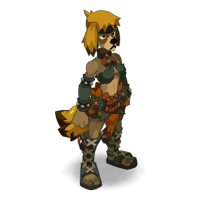
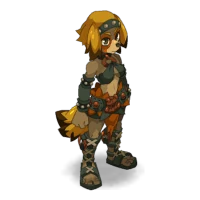
Ouginak : les 8 vraies têtes pour chaque sexe
Les têtes de l'Ouginak sont les apparences 3502 à 3509 (masculin) et 3510 à 3517 (féminin), vérifiées sur le serveur d'images d'Ankama et comparées au rendu officiel par défaut. L'ancienne liste était décalée de deux (d'où les têtes féminines chez l'homme et les têtes cassées chez la femme). Images locales régénérées, cache des images media-v7.

Claude-Session: https://claude.ai/code/session_01TgfgsFbfimzPE6UbE45j36

diff --git a/js/looks.js b/js/looks.js
@@ -1,7 +1,7 @@
 /* idlus — apparences des héros (3.1)
    Rendus officiels des apparences DOFUS (corps de classe, têtes, couleurs) + correspondances objet → apparence établies par idlus. */
 (function (root) {
-  const CLASS_LOOKS = {"feca":{"m":{"body":10,"heads":[2012,2013,2014,2015,2016,2017,2018,2019],"colors":[15047528,7814953,14185518,4809554,5319189]},"f":{"body":11,"heads":[2020,2021,2022,2023,2024,2025,2026,2027],"colors":[15047528,7814953,14185518,4809554,5319189]}},"osa":{"m":{"body":20,"heads":[2028,2029,2030,2031,2032,2033,2034,2035],"colors":[14325094,14732959,3572096,4800822,16755757]},"f":{"body":21,"heads":[2036,2037,2038,2039,2040,2041,2042,2043],"colors":[14325094,14732959,3572096,4800822,16755757]}},"enu":{"m":{"body":30,"heads":[2044,2045,2046,2047,2048,2049,2050,2051],"colors":[13732958,15851694,3093806,14325820,7814953]},"f":{"body":31,"heads":[2052,2053,2054,2055,2056,2057,2058,2059],"colors":[16297081,15588265,3159600,14517248,7814953]}},"sram":{"m":{"body":40,"heads":[2060,2061,2062,2063,2064,2065,2066,2067],"colors":[14206857,15392448,3435918,6177568,10715217]},"f":{"body":41,"heads":[2068,2069,2070,2071,2072,2073,2074,2075],"colors":[14325094,15392448,3435918,6177568,3435918]}},"xelor":{"m":{"body":50,"heads":[2076,2077,2078,2079,2080,2081,2082,2083],"colors":[8550749,15782577,1923718,6700064,15042816]},"f":{"body":51,"heads":[2084,2085,2086,2087,2088,2089,2090,2091],"colors":[8550749,14533780,1923718,6700064,15042816]}},"eca":{"m":{"body":60,"heads":[2092,2093,2094,2095,2096,2097,2098,2099],"colors":[14732959,15173176,15690532,5478807,7687730]},"f":{"body":61,"heads":[2100,2101,2102,2103,2104,2105,2106,2107],"colors":[14732959,15173176,15690532,5478807,7687730]}},"eni":{"m":{"body":70,"heads":[2108,2109,2110,2111,2112,2113,2114,2115],"colors":[14325094,7814953,13997612,4739655,6833937]},"f":{"body":71,"heads":[2116,2117,2118,2119,2120,2121,2122,2123],"colors":[15047528,14996664,14368563,14471352,9799968]}},"iop":{"m":{"body":80,"heads":[2124,2125,2126,2127,2128,2129,2130,2131],"colors":[15704172,15301153,14736065,12200764,484225]},"f":{"body":81,"heads":[2132,2133,2134,2135,2136,2137,2138,2139],"colors":[15047528,15301153,14736065,12200764,12200764]}},"cra":{"m":{"body":90,"heads":[2140,2141,2142,2143,2144,2145,2146,2147],"colors":[15047528,14383411,7696171,8675096,9392643]},"f":{"body":91,"heads":[2148,2149,2150,2151,2152,2153,2154,2155],"colors":[15047528,14383411,7696171,9392643,9392643]}},"sadi":{"m":{"body":100,"heads":[2156,2157,2158,2159,2160,2161,2162,2163],"colors":[9329441,7966996,15914657,7820329,15914657]},"f":{"body":101,"heads":[2164,2165,2166,2167,2168,2169,2170,2171],"colors":[12282670,7966996,14994072,10711608,15258276]}},"sacri":{"m":{"body":110,"heads":[2172,2173,2174,2175,2176,2177,2178,2179],"colors":[15047528,15896377,8287530,8727092,16422159]},"f":{"body":111,"heads":[2180,2181,2182,2183,2184,2185,2186,2187],"colors":[15047528,15896377,8287530,8727092,16422159]}},"panda":{"m":{"body":120,"heads":[2188,2189,2190,2191,2192,2193,2194,2195],"colors":[13418918,5329968,9904435,3423523,14533780]},"f":{"body":121,"heads":[2196,2197,2198,2199,2200,2201,2202,2203],"colors":[13418918,5329968,9904435,9904435,14533780]}},"roub":{"m":{"body":1405,"heads":[2204,2205,2206,2207,2208,2209,2210,2211],"colors":[15047528,1341042,3883833,15703040,7098924]},"f":{"body":1407,"heads":[2212,2213,2214,2215,2216,2217,2218,2219],"colors":[15047528,1341042,3883833,15703040,7098924]}},"zobal":{"m":{"body":1437,"heads":[2220,2221,2222,2223,2224,2225,2226,2227],"colors":[15572842,9836073,4863523,1855824,11839343]},"f":{"body":1438,"heads":[2228,2229,2230,2231,2232,2233,2234,2235],"colors":[15572842,9836073,4863523,1855824,11839343]}},"steam":{"m":{"body":1663,"heads":[2236,2237,2238,2239,2240,2241,2242,2243],"colors":[14785388,15060409,3882547,11430949,10984301]},"f":{"body":1664,"heads":[2244,2245,2246,2247,2248,2249,2250,2251],"colors":[14785388,15060409,3882547,11430949,10984301]}},"elio":{"m":{"body":3179,"heads":[3183,3184,3185,3186,3187,3188,3189,3190],"colors":[16112841,10072765,8211000,16765866,2388929]},"f":{"body":3180,"heads":[3199,3200,3201,3202,3203,3204,3205,3206],"colors":[16112841,10072765,8211000,16765866,2388929]}},"hupper":{"m":{"body":3285,"heads":[3289,3290,3291,3292,3293,3294,3295,3296],"colors":[16104582,16439198,2663850,15071441,16643820]},"f":{"body":3286,"heads":[3297,3298,3299,3300,3301,3302,3303,3304],"colors":[16104582,16439198,2663850,13426363,15987438]}},"ougi":{"m":{"body":3498,"heads":[3504,3506,3507,3508,3511],"colors":[9795658,9989653,8077087,4081977,12868619]},"f":{"body":3499,"heads":[3526,3527],"colors":[9598537,13012508,8077087,4081977,9717256]}},"forge":{"m":{"body":3221,"heads":[4364,4365,4366,4367,4368,4369,4370,4371],"colors":[15047528,7814953,4276545,15325098,8885653]},"f":{"body":3633,"heads":[4363,4374,4375,4376,4377,4378,4379,4372],"colors":[15047528,7814953,4276545,15325098,8885653]}}};
+  const CLASS_LOOKS = {"feca":{"m":{"body":10,"heads":[2012,2013,2014,2015,2016,2017,2018,2019],"colors":[15047528,7814953,14185518,4809554,5319189]},"f":{"body":11,"heads":[2020,2021,2022,2023,2024,2025,2026,2027],"colors":[15047528,7814953,14185518,4809554,5319189]}},"osa":{"m":{"body":20,"heads":[2028,2029,2030,2031,2032,2033,2034,2035],"colors":[14325094,14732959,3572096,4800822,16755757]},"f":{"body":21,"heads":[2036,2037,2038,2039,2040,2041,2042,2043],"colors":[14325094,14732959,3572096,4800822,16755757]}},"enu":{"m":{"body":30,"heads":[2044,2045,2046,2047,2048,2049,2050,2051],"colors":[13732958,15851694,3093806,14325820,7814953]},"f":{"body":31,"heads":[2052,2053,2054,2055,2056,2057,2058,2059],"colors":[16297081,15588265,3159600,14517248,7814953]}},"sram":{"m":{"body":40,"heads":[2060,2061,2062,2063,2064,2065,2066,2067],"colors":[14206857,15392448,3435918,6177568,10715217]},"f":{"body":41,"heads":[2068,2069,2070,2071,2072,2073,2074,2075],"colors":[14325094,15392448,3435918,6177568,3435918]}},"xelor":{"m":{"body":50,"heads":[2076,2077,2078,2079,2080,2081,2082,2083],"colors":[8550749,15782577,1923718,6700064,15042816]},"f":{"body":51,"heads":[2084,2085,2086,2087,2088,2089,2090,2091],"colors":[8550749,14533780,1923718,6700064,15042816]}},"eca":{"m":{"body":60,"heads":[2092,2093,2094,2095,2096,2097,2098,2099],"colors":[14732959,15173176,15690532,5478807,7687730]},"f":{"body":61,"heads":[2100,2101,2102,2103,2104,2105,2106,2107],"colors":[14732959,15173176,15690532,5478807,7687730]}},"eni":{"m":{"body":70,"heads":[2108,2109,2110,2111,2112,2113,2114,2115],"colors":[14325094,7814953,13997612,4739655,6833937]},"f":{"body":71,"heads":[2116,2117,2118,2119,2120,2121,2122,2123],"colors":[15047528,14996664,14368563,14471352,9799968]}},"iop":{"m":{"body":80,"heads":[2124,2125,2126,2127,2128,2129,2130,2131],"colors":[15704172,15301153,14736065,12200764,484225]},"f":{"body":81,"heads":[2132,2133,2134,2135,2136,2137,2138,2139],"colors":[15047528,15301153,14736065,12200764,12200764]}},"cra":{"m":{"body":90,"heads":[2140,2141,2142,2143,2144,2145,2146,2147],"colors":[15047528,14383411,7696171,8675096,9392643]},"f":{"body":91,"heads":[2148,2149,2150,2151,2152,2153,2154,2155],"colors":[15047528,14383411,7696171,9392643,9392643]}},"sadi":{"m":{"body":100,"heads":[2156,2157,2158,2159,2160,2161,2162,2163],"colors":[9329441,7966996,15914657,7820329,15914657]},"f":{"body":101,"heads":[2164,2165,2166,2167,2168,2169,2170,2171],"colors":[12282670,7966996,14994072,10711608,15258276]}},"sacri":{"m":{"body":110,"heads":[2172,2173,2174,2175,2176,2177,2178,2179],"colors":[15047528,15896377,8287530,8727092,16422159]},"f":{"body":111,"heads":[2180,2181,2182,2183,2184,2185,2186,2187],"colors":[15047528,15896377,8287530,8727092,16422159]}},"panda":{"m":{"body":120,"heads":[2188,2189,2190,2191,2192,2193,2194,2195],"colors":[13418918,5329968,9904435,3423523,14533780]},"f":{"body":121,"heads":[2196,2197,2198,2199,2200,2201,2202,2203],"colors":[13418918,5329968,9904435,9904435,14533780]}},"roub":{"m":{"body":1405,"heads":[2204,2205,2206,2207,2208,2209,2210,2211],"colors":[15047528,1341042,3883833,15703040,7098924]},"f":{"body":1407,"heads":[2212,2213,2214,2215,2216,2217,2218,2219],"colors":[15047528,1341042,3883833,15703040,7098924]}},"zobal":{"m":{"body":1437,"heads":[2220,2221,2222,2223,2224,2225,2226,2227],"colors":[15572842,9836073,4863523,1855824,11839343]},"f":{"body":1438,"heads":[2228,2229,2230,2231,2232,2233,2234,2235],"colors":[15572842,9836073,4863523,1855824,11839343]}},"steam":{"m":{"body":1663,"heads":[2236,2237,2238,2239,2240,2241,2242,2243],"colors":[14785388,15060409,3882547,11430949,10984301]},"f":{"body":1664,"heads":[2244,2245,2246,2247,2248,2249,2250,2251],"colors":[14785388,15060409,3882547,11430949,10984301]}},"elio":{"m":{"body":3179,"heads":[3183,3184,3185,3186,3187,3188,3189,3190],"colors":[16112841,10072765,8211000,16765866,2388929]},"f":{"body":3180,"heads":[3199,3200,3201,3202,3203,3204,3205,3206],"colors":[16112841,10072765,8211000,16765866,2388929]}},"hupper":{"m":{"body":3285,"heads":[3289,3290,3291,3292,3293,3294,3295,3296],"colors":[16104582,16439198,2663850,15071441,16643820]},"f":{"body":3286,"heads":[3297,3298,3299,3300,3301,3302,3303,3304],"colors":[16104582,16439198,2663850,13426363,15987438]}},"ougi":{"m":{"body":3498,"heads":[3502,3503,3504,3505,3506,3507,3508,3509],"colors":[9795658,9989653,8077087,4081977,12868619]},"f":{"body":3499,"heads":[3510,3511,3512,3513,3514,3515,3516,3517],"colors":[9598537,13012508,8077087,4081977,9717256]}},"forge":{"m":{"body":3221,"heads":[4364,4365,4366,4367,4368,4369,4370,4371],"colors":[15047528,7814953,4276545,15325098,8885653]},"f":{"body":3633,"heads":[4363,4374,4375,4376,4377,4378,4379,4372],"colors":[15047528,7814953,4276545,15325098,8885653]}}};
   /* coiffes et capes dont l'apparence est connue (les autres n'apparaissent pas encore sur le héros) */
   const ITEM_SKINS = {"i8534":191,"i937":212,"i8232":167,"i2473":124,"i8231":166,"i8236":168,"i8233":170,"i8235":169,"i8234":171,"i773":88,"i776":92,"i6916":319,"i947":217,"i744":84,"i1021":1171,"i2414":119,"i6720":131,"i8258":172,"i957":208,"i8112":161,"i7108":320,"i2445":122,"i2382":112,"i2412":117,"i2534":128,"i2489":125,"i1695":93,"i8247":283,"i8246":284,"i2474":242,"i8248":285,"i6917":262,"i8125":276,"i2411":239,"i6719":251,"i8259":286,"i701":226,"i10828":265,"i702":227,"i708":433,"i2641":247,"i2438":240,"i2070":249,"i7109":269,"i2095":234,"i2409":237,"i2535":245,"i6760":257,"i6991":1094,"i1908":1066,"i8304":295,"i7887":1100,"i8285":293,"i6764":428,"i8163":450,"i8845":309,"i2546":246,"i8330":416,"i8463":302,"i7151":440,"i6481":250,"i8243":280,"i8244":281,"i8245":282};
   /* palettes : la couleur 1 (peau) est conservée, les autres sont remplacées */

diff --git a/sw.js b/sw.js
@@ -4,7 +4,7 @@
 const VERSION = "0.1.0";
 /* La version de test (/beta/) a ses propres caches : chaque service worker ne nettoie que les siens. */
 const P = /\/beta\/$/.test(self.registration.scope) ? "idlus-beta-" : "idlus-";
-const CORE = P + "core-" + VERSION, MEDIA = P + "media-v6";
+const CORE = P + "core-" + VERSION, MEDIA = P + "media-v7";
 const PRECACHE = ["./", "index.html", "css/style.css", "js/gamedata.js", "js/looks.js", "js/data.js", "js/engine.js", "js/systems.js", "js/ui.js", "js/admin.js", "manifest.webmanifest", "icons/icon-192.png", "icons/icon-512.png"];
 self.addEventListener("install", (e) => { e.waitUntil(caches.open(CORE).then((c) => c.addAll(PRECACHE)).then(() => self.skipWaiting())); });
 self.addEventListener("activate", (e) => {
